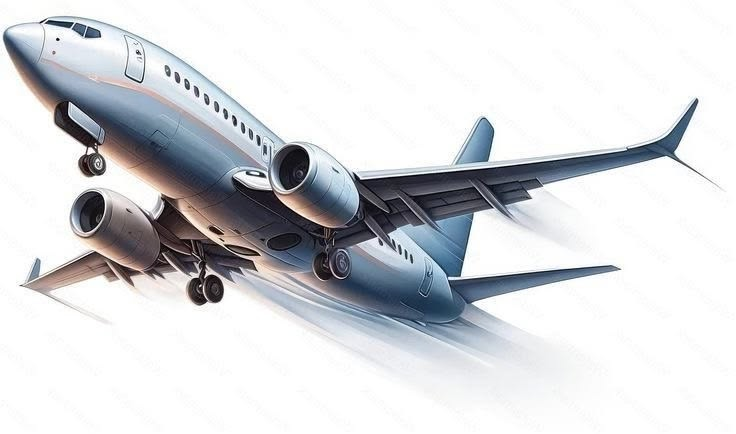
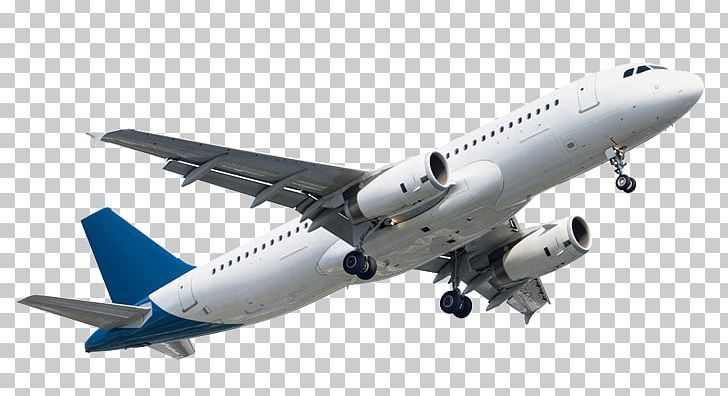
redesign about us page

diff --git a/src/pages/Destination.jsx b/src/pages/Destination.jsx
@@ -1,13 +1,129 @@
+import {
+  FiArrowRight,
+  FiCompass,
+  FiHeart,
+  FiMapPin,
+  FiSearch,
+  FiSun,
+} from "react-icons/fi";
+import { Link } from "react-router-dom";
+import DestinationCards from "../components/DestinationCards";
+import Layout from "../components/layout/Layout";
+import heroImage from "../assets/images/heroImg.png";
+
 function Destination() {
   return (
-    <main className="mx-auto max-w-5xl px-6 py-16">
-      <p className="text-sm font-semibold uppercase tracking-[0.25em] text-cyan-700">Explore</p>
-      <h1 className="mt-3 text-4xl font-bold text-slate-900">Choose your next destination</h1>
-      <p className="mt-4 max-w-2xl text-lg text-slate-600">
-        From quiet coastlines to cities full of character, your next journey starts here.
-      </p>
+    <main className="overflow-hidden bg-[#f7fbfa]">
+      <section className="relative isolate bg-[#073b4c] text-white">
+        <div className="absolute inset-0 bg-[radial-gradient(circle_at_12%_20%,rgba(6,214,160,0.35),transparent_28%),radial-gradient(circle_at_88%_10%,rgba(255,209,102,0.25),transparent_24%)]" />
+        <div className="absolute -bottom-24 -right-16 h-64 w-64 rounded-full border-[28px] border-[#ef476f]/30 sm:h-96 sm:w-96" />
+        <Layout>
+          <div className="relative grid min-h-[540px] items-center gap-10 px-6 py-16 sm:px-10 lg:grid-cols-[1.05fr_0.95fr] lg:px-12 lg:py-20">
+            <div className="max-w-xl">
+              <div className="mb-6 inline-flex items-center gap-2 rounded-full border border-white/20 bg-white/10 px-4 py-2 text-xs font-bold uppercase tracking-[0.22em] text-[#ffd166] backdrop-blur-sm">
+                <FiCompass /> Curated escapes
+              </div>
+              <h1 className="max-w-lg text-5xl font-black leading-[0.98] tracking-tight sm:text-6xl lg:text-7xl">
+                Go somewhere that feels like <span className="text-[#06d6a0]">you.</span>
+              </h1>
+              <p className="mt-6 max-w-lg text-base leading-7 text-cyan-50/75 sm:text-lg">
+                From sunlit coastlines to electric city nights, discover places
+                with the right rhythm for your next unforgettable story.
+              </p>
+              <div className="mt-8 flex flex-wrap gap-3">
+                <a
+                  href="#destinations"
+                  className="group inline-flex items-center gap-2 rounded-full bg-[#ffd166] px-5 py-3 text-sm font-extrabold text-[#073b4c] transition hover:-translate-y-1 hover:bg-white"
+                >
+                  Explore places
+                  <FiArrowRight className="transition-transform group-hover:translate-x-1" />
+                </a>
+                <Link
+                  to="/contact"
+                  className="inline-flex items-center gap-2 rounded-full border border-white/30 px-5 py-3 text-sm font-bold text-white transition hover:border-[#06d6a0] hover:bg-[#06d6a0] hover:text-[#073b4c]"
+                >
+                  Plan with an expert
+                </Link>
+              </div>
+            </div>
+
+            <div className="relative mx-auto w-full max-w-md lg:justify-self-end">
+              <div className="absolute -left-5 top-12 z-10 flex items-center gap-2 rounded-2xl bg-white px-4 py-3 text-sm font-bold text-[#073b4c] shadow-xl sm:-left-10">
+                <span className="grid h-9 w-9 place-items-center rounded-xl bg-[#ef476f]/15 text-[#ef476f]"><FiHeart /></span>
+                Loved by 2,000+ travelers
+              </div>
+              <div className="relative aspect-[4/5] overflow-hidden rounded-[2rem] border-8 border-white/15 bg-[#118ab2] shadow-2xl shadow-black/25">
+                <img src={heroImage} alt="A colorful travel scene" className="h-full w-full object-cover" />
+                <div className="absolute inset-x-0 bottom-0 bg-linear-to-t from-[#073b4c]/90 to-transparent p-6 pt-24">
+                  <p className="text-xs font-bold uppercase tracking-[0.2em] text-[#ffd166]">The world is wide</p>
+                  <p className="mt-2 text-2xl font-black">Your next chapter starts here.</p>
+                </div>
+              </div>
+              <div className="absolute -bottom-5 -right-5 grid h-20 w-20 place-items-center rounded-full bg-[#06d6a0] text-center text-xs font-black uppercase leading-4 text-[#073b4c] shadow-xl sm:-right-8">
+                Pack<br />light
+              </div>
+            </div>
+          </div>
+        </Layout>
+      </section>
+
+      <section className="relative z-10 mx-auto -mt-8 max-w-7xl px-6 sm:px-10 lg:px-12">
+        <div className="grid overflow-hidden rounded-2xl bg-white shadow-xl shadow-[#073b4c]/10 sm:grid-cols-3">
+          {[
+            ["24/7", "Travel support", FiHeart],
+            ["40+", "Handpicked places", FiMapPin],
+            ["98%", "Happy explorers", FiSun],
+          ].map(([value, label, Icon]) => (
+            <div key={label} className="flex items-center gap-4 border-b border-slate-100 px-6 py-5 last:border-0 sm:border-b-0 sm:border-r sm:last:border-0 sm:px-8">
+              <span className="grid h-11 w-11 shrink-0 place-items-center rounded-xl bg-[#06d6a0]/15 text-xl text-[#069c78]"><Icon /></span>
+              <div><p className="text-2xl font-black text-[#073b4c]">{value}</p><p className="text-sm text-slate-500">{label}</p></div>
+            </div>
+          ))}
+        </div>
+      </section>
+
+      <section id="destinations" className="px-6 py-20 sm:px-10 lg:px-12 lg:py-28">
+        <Layout>
+          <div className="mb-10 flex flex-col gap-6 lg:flex-row lg:items-end lg:justify-between">
+            <div>
+              <p className="mb-3 text-xs font-black uppercase tracking-[0.28em] text-[#ef476f]">Find your kind of wonderful</p>
+              <h2 className="text-4xl font-black tracking-tight text-[#073b4c] sm:text-5xl">Where will you feel most alive?</h2>
+              <p className="mt-4 max-w-2xl text-base leading-7 text-slate-600">Browse our favorite escapes, selected for the moments you will talk about long after you return home.</p>
+            </div>
+            <div className="flex items-center gap-3 rounded-xl border border-slate-200 bg-white px-4 py-3 text-sm text-slate-400 shadow-sm">
+              <FiSearch className="text-[#118ab2]" />
+              <span>Popular destinations</span>
+            </div>
+          </div>
+
+          <div className="mb-10 flex flex-wrap gap-3">
+            {["All escapes", "Beach days", "City energy", "Slow travel"].map((filter, index) => (
+              <button key={filter} type="button" className={`rounded-full px-5 py-2.5 text-sm font-bold transition ${index === 0 ? "bg-[#073b4c] text-white shadow-lg shadow-[#073b4c]/15" : "border border-slate-200 bg-white text-slate-600 hover:border-[#06d6a0] hover:text-[#069c78]"}`}>
+                {filter}
+              </button>
+            ))}
+          </div>
+
+          <DestinationCards />
+        </Layout>
+      </section>
+
+      <section className="bg-[#ffd166] px-6 py-16 sm:px-10 lg:px-12">
+        <Layout>
+          <div className="flex flex-col items-start justify-between gap-8 sm:flex-row sm:items-center">
+            <div className="max-w-2xl">
+              <p className="text-xs font-black uppercase tracking-[0.25em] text-[#ef476f]">Make it personal</p>
+              <h2 className="mt-3 text-3xl font-black leading-tight text-[#073b4c] sm:text-4xl">Not sure where to begin?</h2>
+              <p className="mt-3 text-base leading-7 text-[#073b4c]/70">Tell us what you love, and we will match you with a journey that fits your pace.</p>
+            </div>
+            <Link to="/contact" className="group inline-flex shrink-0 items-center gap-2 rounded-full bg-[#ef476f] px-6 py-3.5 text-sm font-extrabold text-white shadow-lg shadow-[#ef476f]/20 transition hover:-translate-y-1 hover:bg-[#073b4c]">
+              Build my trip <FiArrowRight className="transition-transform group-hover:translate-x-1" />
+            </Link>
+          </div>
+        </Layout>
+      </section>
     </main>
-  )
+  );
 }
 
-export default Destination
+export default Destination;

diff --git a/src/pages/About.jsx b/src/pages/About.jsx
@@ -1,11 +1,143 @@
-import React from 'react'
+import {
+  FiArrowRight,
+  FiCompass,
+  FiGlobe,
+  FiHeart,
+  FiStar,
+  FiUsers,
+} from "react-icons/fi";
+import { Link } from "react-router-dom";
+import Layout from "../components/layout/Layout";
+import heroImage from "../assets/images/heroImg.png";
+
+const values = [
+  {
+    icon: FiCompass,
+    title: "Curiosity first",
+    text: "We look beyond the obvious so every itinerary has a little more soul.",
+    color: "bg-[#06d6a0]/15 text-[#069c78]",
+  },
+  {
+    icon: FiHeart,
+    title: "People over plans",
+    text: "Thoughtful guidance and real support make the journey feel effortless.",
+    color: "bg-[#ef476f]/15 text-[#db315c]",
+  },
+  {
+    icon: FiGlobe,
+    title: "Travel with purpose",
+    text: "We champion local experiences that leave places and people better.",
+    color: "bg-[#ffd166]/30 text-[#b77a00]",
+  },
+];
 
 const About = () => {
   return (
-    <div>
-      <h1 className="text-3xl text-red-500">About Us</h1>
-      <p>Welcome to our about page!</p>
-    </div>
+    <main className="overflow-hidden bg-[#f7fbfa]">
+      <section className="relative isolate bg-[#073b4c] text-white">
+        <div className="absolute inset-0 bg-[radial-gradient(circle_at_80%_10%,rgba(239,71,111,0.32),transparent_28%),radial-gradient(circle_at_10%_80%,rgba(6,214,160,0.28),transparent_30%)]" />
+        <div className="absolute -left-20 top-10 h-40 w-40 rounded-full border-[18px] border-[#ffd166]/30" />
+        <Layout>
+          <div className="relative grid min-h-[510px] items-center gap-12 px-6 py-16 sm:px-10 lg:grid-cols-[1fr_0.9fr] lg:px-12 lg:py-20">
+            <div className="max-w-2xl">
+              <p className="mb-5 inline-flex items-center gap-2 text-xs font-black uppercase tracking-[0.28em] text-[#ffd166]">
+                <span className="h-2 w-2 rounded-full bg-[#ef476f]" /> The people behind Travel.
+              </p>
+              <h1 className="text-5xl font-black leading-[0.98] tracking-tight sm:text-6xl lg:text-7xl">
+                We make the world feel a little <span className="text-[#06d6a0]">closer.</span>
+              </h1>
+              <p className="mt-7 max-w-xl text-base leading-7 text-cyan-50/75 sm:text-lg">
+                Travel. began with a simple belief: planning a trip should feel
+                as exciting as taking one. Today, we help curious people find
+                meaningful places, memorable stays, and more reasons to wander.
+              </p>
+              <Link
+                to="/destination"
+                className="group mt-8 inline-flex items-center gap-2 rounded-full bg-[#ffd166] px-5 py-3 text-sm font-extrabold text-[#073b4c] transition hover:-translate-y-1 hover:bg-white"
+              >
+                Meet your next adventure
+                <FiArrowRight className="transition-transform group-hover:translate-x-1" />
+              </Link>
+            </div>
+
+            <div className="relative mx-auto w-full max-w-md lg:justify-self-end">
+              <div className="absolute -right-4 top-8 z-10 rounded-2xl bg-[#ef476f] px-5 py-4 shadow-xl shadow-[#073b4c]/30 sm:-right-10">
+                <p className="text-3xl font-black">8 yrs</p>
+                <p className="text-xs font-bold uppercase tracking-widest text-white/75">of wander</p>
+              </div>
+              <div className="aspect-square overflow-hidden rounded-[2rem] border-8 border-white/15 bg-[#118ab2] shadow-2xl shadow-black/25">
+                <img src={heroImage} alt="A colorful travel landscape" className="h-full w-full object-cover" />
+              </div>
+              <div className="absolute -bottom-6 -left-5 flex items-center gap-3 rounded-2xl bg-white px-4 py-3 text-[#073b4c] shadow-xl sm:-left-10">
+                <span className="grid h-10 w-10 place-items-center rounded-xl bg-[#06d6a0]/15 text-xl text-[#069c78]"><FiStar /></span>
+                <div><p className="text-sm font-black">4.9 / 5</p><p className="text-xs text-slate-500">traveler rating</p></div>
+              </div>
+            </div>
+          </div>
+        </Layout>
+      </section>
+
+      <section className="px-6 py-20 sm:px-10 lg:px-12 lg:py-28">
+        <Layout>
+          <div className="grid items-center gap-12 lg:grid-cols-[0.8fr_1.2fr] lg:gap-20">
+            <div>
+              <p className="mb-3 text-xs font-black uppercase tracking-[0.28em] text-[#ef476f]">Our north star</p>
+              <h2 className="text-4xl font-black leading-tight tracking-tight text-[#073b4c] sm:text-5xl">Good trips start with good intent.</h2>
+              <div className="mt-6 h-1.5 w-20 rounded-full bg-[#06d6a0]" />
+            </div>
+            <div className="space-y-5 text-base leading-8 text-slate-600">
+              <p>We are a small, curious team of destination nerds, thoughtful planners, and lifelong explorers. We know the joy of finding a quiet cafe on a busy street and the relief of having someone helpful when plans change.</p>
+              <p>That is the feeling we build into every recommendation. No copy-paste holidays, no rushed checklists. Just honest inspiration and the practical details that help you travel with confidence.</p>
+            </div>
+          </div>
+
+          <div className="mt-16 grid gap-4 md:grid-cols-3">
+            {values.map(({ icon: Icon, title, text, color }) => (
+              <article key={title} className="rounded-2xl border border-slate-200 bg-white p-7 shadow-sm transition duration-300 hover:-translate-y-2 hover:shadow-xl hover:shadow-[#073b4c]/10">
+                <div className={`mb-6 grid h-14 w-14 place-items-center rounded-2xl text-2xl ${color}`}><Icon /></div>
+                <h3 className="text-xl font-black text-[#073b4c]">{title}</h3>
+                <p className="mt-3 text-sm leading-6 text-slate-600">{text}</p>
+              </article>
+            ))}
+          </div>
+        </Layout>
+      </section>
+
+      <section className="bg-[#ffd166] px-6 py-16 sm:px-10 lg:px-12">
+        <Layout>
+          <div className="grid items-center gap-10 lg:grid-cols-[1fr_auto]">
+            <div>
+              <p className="text-xs font-black uppercase tracking-[0.28em] text-[#ef476f]">A growing community</p>
+              <h2 className="mt-3 max-w-2xl text-3xl font-black leading-tight text-[#073b4c] sm:text-4xl">More than a booking. A better way to go.</h2>
+            </div>
+            <div className="grid grid-cols-2 gap-8 sm:grid-cols-3">
+              {[
+                ["40+", "destinations"],
+                ["12k", "happy travelers"],
+                ["24/7", "human support"],
+              ].map(([value, label]) => (
+                <div key={label} className="text-center"><p className="text-3xl font-black text-[#073b4c]">{value}</p><p className="mt-1 text-xs font-bold uppercase tracking-wider text-[#073b4c]/60">{label}</p></div>
+              ))}
+            </div>
+          </div>
+        </Layout>
+      </section>
+
+      <section className="bg-[#073b4c] px-6 py-20 text-white sm:px-10 lg:px-12">
+        <Layout>
+          <div className="flex flex-col items-start justify-between gap-8 sm:flex-row sm:items-center">
+            <div className="max-w-xl">
+              <div className="mb-4 flex items-center gap-2 text-[#06d6a0]"><FiUsers /><span className="text-xs font-black uppercase tracking-[0.25em]">Travel your way</span></div>
+              <h2 className="text-3xl font-black sm:text-4xl">Ready to find your place in the world?</h2>
+              <p className="mt-3 leading-7 text-cyan-50/70">Start with a destination, a feeling, or simply a free weekend.</p>
+            </div>
+            <Link to="/contact" className="group inline-flex shrink-0 items-center gap-2 rounded-full bg-[#06d6a0] px-6 py-3.5 text-sm font-extrabold text-[#073b4c] transition hover:-translate-y-1 hover:bg-white">
+              Talk to our team <FiArrowRight className="transition-transform group-hover:translate-x-1" />
+            </Link>
+          </div>
+        </Layout>
+      </section>
+    </main>
   )
 }
 
